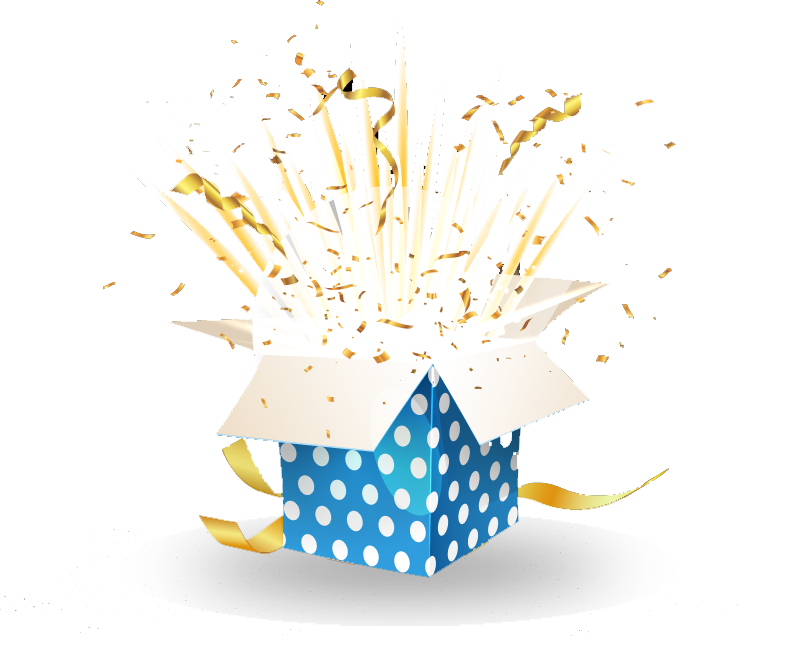
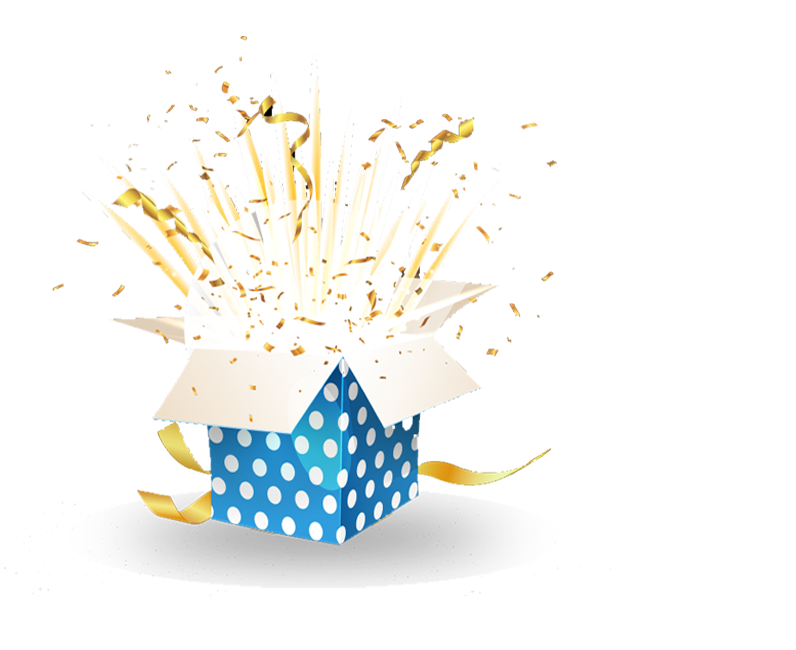
Added some modification on gift box section

diff --git a/style.css b/style.css
@@ -50,10 +50,10 @@
 .header-container {
     background-image: linear-gradient(180deg, #070211 0%, #07021100 100%), url('./resources/header.png');
     background-repeat: no-repeat;
-    background-size: contain;
-    /* background-size: 85%; */
+    /* background-size: contain; */
+    background-size: 95%;
     background-position: center top;
-    padding: 150px 250px 150px;
+    padding: 150px 200px 130px;
     margin: 50px 60px;
     border-radius: 8px;
 }
@@ -209,44 +209,54 @@
 .gift-box-area {
     background-image: url('./resources/gift-area-bg.png');
     background-position: center bottom;
-    background-size: contain;
+    /* background-size: contain; */
     background-repeat: no-repeat;
-    /* width: 85%; */
+    width: 85%;
     text-align: center;
     margin: 90px;
     display: flex;
-    gap: 50px;
+    /* gap: 50px; */
     position: relative;
 }
 
 .gift-box {
-    width: 65%;
-    margin-top: 35px;
+    width: 70%;
+    margin-bottom: 0px;
 }
 
 .girl-with-bag {
-    position: absolute;
-    right: 0;
-    top: 0;
+    /* position: absolute; */
+    width: 100%;
+    /* bottom: 230px; */
     /* width: auto; */
+    margin-top: 60px;
 }
 
 .discount-50 {
     position: absolute;
-    right: 26%;
-    top: 10%;
+    right: 280px;
+    top: 30px;
 }
 
 
 /* Our Awesome Portfolio Section */
-.portfolio-img-container {
+/* .portfolio-img-container {
     columns: 3;
     column-gap: 20px;
+} */
+
+
+.portfolio-img-container {
+    display: grid;
+    grid-template-columns: auto auto auto;
+    /* column-gap: 20px; */
+
 }
 
 .portfolio-item {
-    width: 100%;
+    padding-left: 20px;
     margin-bottom: 20px;
+    width: 95%;
 }
 
 

diff --git a/index.html b/index.html
@@ -19,7 +19,7 @@
 
 <body>
     <!-- Header Section Start -->
-    <header class="header-container section-container">
+    <header class="header-container">
         <div class="header-content">
             <h3 class="header-sub-title">Happy New Year</h3>
             <h1 class="header-title">New Year Party Celebration</h1>
@@ -97,8 +97,10 @@
             <div>
                 <div class="gift-box-area">
                     <img class="gift-box" src="./resources/gift-box.png" alt="">
-                    <img class="girl-with-bag" src="./resources/girl-with-bag.png" alt="">
-                    <img class="discount-50" src="./resources/discount50.png" alt="">
+                    <div>
+                        <img class="girl-with-bag" src="./resources/girl-with-bag.png" alt="">
+                        <img class="discount-50" src="./resources/discount50.png" alt="">
+                    </div>
                 </div>
             </div>
         </section>
